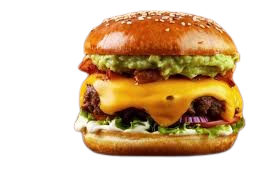
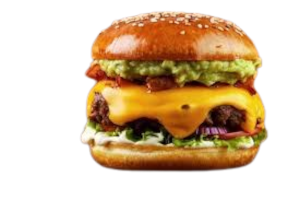
Add files via upload

diff --git a/index.html b/index.html
@@ -16,6 +16,7 @@
     <!-- Fuentes para que se vea bien la pàgina -->
     <link rel="stylesheet" href="https://fonts.googleapis.com/css2?family=Roboto:wght@100;200;300;400;500;700;900&display=swap">
     <link rel="stylesheet" href="assets/css/fontawesome.min.css">
+
 </head>
 
 <body>
@@ -146,7 +147,7 @@
                 <div class="container">
                     <div class="row p-5">
                         <div class="mx-auto col-md-8 col-lg-6 order-lg-last">
-                            <img class="img-fluid" src="assets\DUCK\8d2r7648bal91-removebg-preview.png" alt="">
+                            <img class="img-fluid" src="assets\DUCK\8d2r7648bal91-removebg-preview(2).png" alt="">
                         </div>
                         <div class="col-lg-6 mb-0 d-flex align-items-center">
                             <div class="text-align-left">
@@ -205,19 +206,19 @@
         </div>
         <div class="row">
             <div class="col-12 col-md-4 p-5 mt-3">
-                <a href="#"><img src="assets\DUCK\Sin título.jpg" class="rounded-circle img-fluid border"></a>
+                <a href="#"><img src="assets\DUCK\caca.jpg" class="rounded-circle img-fluid border"></a>
                 <h5 class="text-center mt-3 mb-3">Classic Quackburguer</h5>
-                <p class="text-center"><a class="btn btn-success">Tienda</a></p>
+                <p class="text-center"><a class="btn btn-success" href="shop.html">Tienda</a></p>
             </div>
             <div class="col-12 col-md-4 p-5 mt-3">
                 <a href="#"><img src="assets\DUCK\royale-scaled.jpg" class="rounded-circle img-fluid border"></a>
                 <h2 class="h5 text-center mt-3 mb-3">Black Duck</h2>
-                <p class="text-center"><a class="btn btn-success">Tienda</a></p>
+                <p class="text-center"><a class="btn btn-success" href="shop.html">Tienda</a></p>
             </div>
             <div class="col-12 col-md-4 p-5 mt-3">
-                <a href="#"><img src="assets\DUCK\Sin_título-removebg-preview.png" class="rounded-circle img-fluid border"></a>
-                <h2 class="h5 text-center mt-3 mb-3">CrispyQuack</h2>
-                <p class="text-center"><a class="btn btn-success">Tienda</a></p>
+                <a href="#"><img src="assets\DUCK\smash-burger-que-es.jpg" class="rounded-circle img-fluid border"></a>
+                <h2 class="h5 text-center mt-3 mb-3">Smashed Duck</h2>
+                <p class="text-center"><a class="btn btn-success" href="shop.html">Tienda</a></p>
             </div>
         </div>
     </section>
@@ -229,18 +230,17 @@
         <div class="container py-5">
             <div class="row text-center py-3">
                 <div class="col-lg-6 m-auto">
-                    <h1 class="h1">Featured Product</h1>
+                    <h1 class="h1"><strong>Productos en desenvolupamiento</strong></h1>
                     <p>
-                        Reprehenderit in voluptate velit esse cillum dolore eu fugiat nulla pariatur.
-                        Excepteur sint occaecat cupidatat non proident.
+                        Dentro de poco vamos a sacar unos productos limitados 3D de Patos Patricio, <strong>¡¡¡consiguelos cuanto antes!!!</strong>
                     </p>
                 </div>
             </div>
             <div class="row">
                 <div class="col-12 col-md-4 mb-4">
                     <div class="card h-100">
-                        <a href="shop-single.html">
-                            <img src="./assets/img/feature_prod_01.jpg" class="card-img-top" alt="...">
+                        <a href="shop.html">
+                            <img src="assets\DUCK\Sin título.jpg" class="card-img-top" alt="...">
                         </a>
                         <div class="card-body">
                             <ul class="list-unstyled d-flex justify-content-between">
@@ -253,18 +253,18 @@
                                 </li>
                                 <li class="text-muted text-right">$240.00</li>
                             </ul>
-                            <a href="shop-single.html" class="h2 text-decoration-none text-dark">Gym Weight</a>
+                            <a href="shop.html" class="h2 text-decoration-none text-dark">Soporte para mobil</a>
                             <p class="card-text">
-                                Lorem ipsum dolor sit amet, consectetur adipisicing elit. Sunt in culpa qui officia deserunt.
+                                Un exclusivo soporte para mobiles inspirado en el tipico pato que usamos en la bañera
                             </p>
-                            <p class="text-muted">Reviews (24)</p>
+                            <p class="text-muted">Reviews (Todavia no hay porque no lo hemos sacado al mercado)</p>
                         </div>
                     </div>
                 </div>
                 <div class="col-12 col-md-4 mb-4">
                     <div class="card h-100">
-                        <a href="shop-single.html">
-                            <img src="./assets/img/feature_prod_02.jpg" class="card-img-top" alt="...">
+                        <a href="shop.html">
+                            <img src="assets\DUCK\Skibidi.jpg" class="card-img-top" alt="...">
                         </a>
                         <div class="card-body">
                             <ul class="list-unstyled d-flex justify-content-between">
@@ -277,18 +277,18 @@
                                 </li>
                                 <li class="text-muted text-right">$480.00</li>
                             </ul>
-                            <a href="shop-single.html" class="h2 text-decoration-none text-dark">Cloud Nike Shoes</a>
+                            <a href="shop.html" class="h2 text-decoration-none text-dark">Anillo version pato</a>
                             <p class="card-text">
-                                Aenean gravida dignissim finibus. Nullam ipsum diam, posuere vitae pharetra sed, commodo ullamcorper.
+                                <strong>Anillo ajustable en forma de pato</strong> perfecto para todo tipo de dedos y pies si asi lo quieres, también tiene un easter egg con premio en metalico para quien lo encuentre.
                             </p>
-                            <p class="text-muted">Reviews (48)</p>
+                            <p class="text-muted">Reviews (Todavia no hay porque no lo hemos sacado al mercado)</p>
                         </div>
                     </div>
                 </div>
                 <div class="col-12 col-md-4 mb-4">
                     <div class="card h-100">
-                        <a href="shop-single.html">
-                            <img src="./assets/img/feature_prod_03.jpg" class="card-img-top" alt="...">
+                        <a href="shop.html">
+                            <img src="assets\DUCK\a2684133930_10.jpg" class="card-img-top" alt="...">
                         </a>
                         <div class="card-body">
                             <ul class="list-unstyled d-flex justify-content-between">
@@ -301,11 +301,11 @@
                                 </li>
                                 <li class="text-muted text-right">$360.00</li>
                             </ul>
-                            <a href="shop-single.html" class="h2 text-decoration-none text-dark">Summer Addides Shoes</a>
+                            <a href="shop.html" class="h2 text-decoration-none text-dark">Skibidi Kai Cenat</a>
                             <p class="card-text">
-                                Curabitur ac mi sit amet diam luctus porta. Phasellus pulvinar sagittis diam, et scelerisque ipsum lobortis nec.
+                                Nuestro mejor producto, Como el nectar de los dioses Skibidi Kai Cenat es un comestible 100% tóxico para las pesonas que quieren ser felices en la vida.
                             </p>
-                            <p class="text-muted">Reviews (74)</p>
+                            <p class="text-muted">Reviews (Todavia no hay porque no lo hemos sacado al mercado)</p>
                         </div>
                     </div>
                 </div>
@@ -321,47 +321,47 @@
             <div class="row">
 
                 <div class="col-md-4 pt-5">
-                    <h2 class="h2 text-success border-bottom pb-3 border-light logo">Zay Shop</h2>
+                    <h2 class="h2 text-success border-bottom pb-3 border-light logo">Patos Patricio shop</h2>
                     <ul class="list-unstyled text-light footer-link-list">
                         <li>
                             <i class="fas fa-map-marker-alt fa-fw"></i>
-                            123 Consectetur at ligula 10660
+                            Nº12 Skibidi, Camerun 
                         </li>
                         <li>
                             <i class="fa fa-phone fa-fw"></i>
-                            <a class="text-decoration-none" href="tel:010-020-0340">010-020-0340</a>
+                            <a class="text-decoration-none" href="tel:010-020-0340">192.168.0.10</a>
                         </li>
                         <li>
                             <i class="fa fa-envelope fa-fw"></i>
-                            <a class="text-decoration-none" href="mailto:info@company.com">info@company.com</a>
+                            <a class="text-decoration-none" href="mailto:stpatriksday@gmail.com">stpatriksday@gmail.com</a>
                         </li>
                     </ul>
                 </div>
 
                 <div class="col-md-4 pt-5">
-                    <h2 class="h2 text-light border-bottom pb-3 border-light">Products</h2>
+                    <h2 class="h2 text-light border-bottom pb-3 border-light">Productos</h2>
                     <ul class="list-unstyled text-light footer-link-list">
-                        <li><a class="text-decoration-none" href="#">Luxury</a></li>
-                        <li><a class="text-decoration-none" href="#">Sport Wear</a></li>
-                        <li><a class="text-decoration-none" href="#">Men's Shoes</a></li>
-                        <li><a class="text-decoration-none" href="#">Women's Shoes</a></li>
-                        <li><a class="text-decoration-none" href="#">Popular Dress</a></li>
-                        <li><a class="text-decoration-none" href="#">Gym Accessories</a></li>
-                        <li><a class="text-decoration-none" href="#">Sport Shoes</a></li>
+                        <li><a class="text-decoration-none" href="#">hamburgesas</a></li>
+                        <li><a class="text-decoration-none" href="#">Productos 3d</a></li>
+                        <li><a class="text-decoration-none" href="#">Accessorios</a></li>
+                        <li><a class="text-decoration-none" href="#">Productos del dia a dia</a></li>
+                        <li><a class="text-decoration-none" href="#">Comida</a></li>
                     </ul>
                 </div>
 
                 <div class="col-md-4 pt-5">
-                    <h2 class="h2 text-light border-bottom pb-3 border-light">Further Info</h2>
+                    <h2 class="h2 text-light border-bottom pb-3 border-light">Sobre nosaltres</h2>
                     <ul class="list-unstyled text-light footer-link-list">
-                        <li><a class="text-decoration-none" href="#">Home</a></li>
-                        <li><a class="text-decoration-none" href="#">About Us</a></li>
-                        <li><a class="text-decoration-none" href="#">Shop Locations</a></li>
-                        <li><a class="text-decoration-none" href="#">FAQs</a></li>
-                        <li><a class="text-decoration-none" href="#">Contact</a></li>
+                        <li><a class="text-decoration-none" href="#"><strong>Pais:</strong> Camerun</a></li>
+                        <li><a class="text-decoration-none" href="#">Empresa mundialmente reconocida</a></li>
+                        <li><a class="text-decoration-none" href="#">Els nostres centres:</a></li>
+                        <a href="https://www.google.com/maps/place/Patos+Patricio/@33.9395996,-25.5312518,3.19z/data=!4m6!3m5!1s0x12baf3d9f8594a9f:0xbbcb8bfc67462883!8m2!3d42.1745392!4d2.9895076!16s%2Fg%2F11ybzsz3z7?entry=ttu&g_ep=EgoyMDI1MDEyOS4xIKXMDSoASAFQAw%3D%3D">Girona, Espanya</a>
+                        <br>
+                        <a href="https://www.google.com/maps/place/Patos+Patricio/@3.8597007,11.5326121,19z/data=!4m6!3m5!1s0x108bc58364f74983:0x8323daf1b5e4e8c0!8m2!3d3.8597387!4d11.5335501!16s%2Fg%2F11ybz6wb0f?authuser=1&entry=ttu&g_ep=EgoyMDI1MDEyOS4xIKXMDSoJLDEwMjExMjMzSAFQAw%3D%3D">Yaunde, Camerun</a>
+                        <li><a class="text-decoration-none" href="mailto:highbrand63@gmail.com">Consultes</a></li>
+                        <li><a class="text-decoration-none" href="mailto:highbrand63@gmail.com">Contacte</a></li>
                     </ul>
                 </div>
-
             </div>
 
             <div class="row text-light mb-4">
@@ -380,7 +380,7 @@
                             <a class="text-light text-decoration-none" target="_blank" href="https://twitter.com/"><i class="fab fa-twitter fa-lg fa-fw"></i></a>
                         </li>
                         <li class="list-inline-item border border-light rounded-circle text-center">
-                            <a class="text-light text-decoration-none" target="_blank" href="https://www.linkedin.com/"><i class="fab fa-linkedin fa-lg fa-fw"></i></a>
+                            <a class="text-light text-decoration-none" target="_blank" href="https://github.com/PatitoPatricio/Pato"><i class="fab fa-linkedin fa-lg fa-fw"></i></a>
                         </li>
                     </ul>
                 </div>
@@ -388,7 +388,7 @@
                     <label class="sr-only" for="subscribeEmail">Email address</label>
                     <div class="input-group mb-2">
                         <input type="text" class="form-control bg-dark border-light" id="subscribeEmail" placeholder="Email address">
-                        <div class="input-group-text btn-success text-light">Subscribe</div>
+                        <div class="input-group-text btn-success text-light">Quack</div>
                     </div>
                 </div>
             </div>
@@ -399,8 +399,8 @@
                 <div class="row pt-2">
                     <div class="col-12">
                         <p class="text-left text-light">
-                            Copyright &copy; 2021 Company Name 
-                            | Designed by <a rel="sponsored" href="https://templatemo.com" target="_blank">TemplateMo</a>
+                            Copyright &copy; 2025 Patos Patricio
+                            | Designed by <a rel="sponsored" href="https://templatemo.com" target="_blank">Patos Patricio</a>
                         </p>
                     </div>
                 </div>
